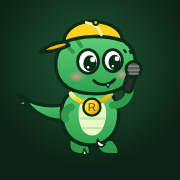
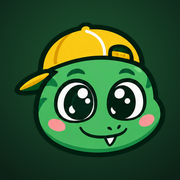
Mascotte Rex en illustrations (neutre, victoire, défaite) et nouvelles icônes d'application
Claude-Session: https://claude.ai/code/session_01A3UQLDuqka1TBU5odZ8x3L

diff --git a/index.html b/index.html
@@ -20,202 +20,8 @@
   <meta name="apple-mobile-web-app-title" content="Raptor Games">
 </head>
 <body>
-  <!-- Mascotte « Rex » (dessin original : casquette, chaîne, micro) et feuilles ; icônes Lucide (licence ISC). Réutilisés avec <use>. -->
+  <!-- Feuilles (dessin original) et icônes Lucide (licence ISC), réutilisées avec <use>. Rex, la mascotte, est en images (rex*.webp). -->
   <svg width="0" height="0" style="position:absolute" aria-hidden="true" focusable="false">
-    <defs>
-    <linearGradient id="rx-skin" x1="0" y1="0" x2="0" y2="1"><stop offset="0" stop-color="#5fd17a"/><stop offset="1" stop-color="#2fa04c"/></linearGradient>
-    <linearGradient id="rx-gold" x1="0" y1="0" x2="1" y2="1"><stop offset="0" stop-color="#fff1a1"/><stop offset=".45" stop-color="#ffd21f"/><stop offset="1" stop-color="#c98f00"/></linearGradient>
-    <radialGradient id="rx-cheek"><stop offset="0" stop-color="#ff8fa3" stop-opacity=".75"/><stop offset="1" stop-color="#ff8fa3" stop-opacity="0"/></radialGradient>
-  </defs>
-    <symbol id="i-raptor" viewBox="0 0 160 160"><g stroke="#0b2a17" stroke-width="3.5" stroke-linejoin="round" stroke-linecap="round">
-    <!-- queue -->
-    <path d="M52 112 C34 112 20 104 10 88 C22 96 36 98 50 96 Z" fill="url(#rx-skin)"/>
-    <path d="M12 90 L2 84 L10 92 L0 94 L12 96 Z" fill="#ffd21f" stroke-width="2.5"/>
-    <!-- pieds -->
-    <path d="M58 132 C56 142 60 148 70 148 L80 148 C82 142 78 136 74 132 Z" fill="#2f9a49"/>
-    <path d="M88 132 C86 142 90 148 100 148 L110 148 C112 142 108 136 104 132 Z" fill="#2f9a49"/>
-    <!-- corps -->
-    <path d="M50 108 C48 88 62 76 80 76 C100 76 112 90 110 110 C108 128 96 138 80 138 C62 138 52 126 50 108 Z" fill="url(#rx-skin)"/>
-  </g>
-  <!-- ventre -->
-  <path d="M68 104 C68 94 74 88 82 88 C92 88 98 96 97 106 C96 120 90 128 82 128 C73 128 68 118 68 104 Z" fill="#e9f8c9"/>
-  <path d="M72 100 L92 100 M71 110 L95 110 M73 120 L92 120" stroke="#c6e6a3" stroke-width="2.5" stroke-linecap="round"/>
-  <!-- griffes -->
-  <path d="M72 148 L74 142 L77 148 Z" fill="#fff" stroke="#0b2a17" stroke-width="1.6" stroke-linejoin="round"/><path d="M93 140 C88 140 86 136 88 132 C90 135 92 137 96 137 Z" fill="#fff" stroke="#0b2a17" stroke-width="1.8" stroke-linejoin="round"/>
-  <!-- chaîne en or + médaillon -->
-  <path d="M60 84 C68 96 92 98 102 84" fill="none" stroke="url(#rx-gold)" stroke-width="5" stroke-dasharray="5 2.5" stroke-linecap="round"/>
-  <g stroke="#0b2a17" stroke-width="2.5">
-    <circle cx="82" cy="98" r="9" fill="url(#rx-gold)"/>
-  </g>
-  <text x="82" y="102.5" text-anchor="middle" font-family="Lilita One, Arial Black, sans-serif" font-size="12" fill="#6b4a00">R</text>
-  <!-- tête -->
-  <g stroke="#0b2a17" stroke-width="3.5" stroke-linejoin="round">
-    <path d="M44 56 C42 34 60 20 84 20 C110 20 128 32 128 52 C128 72 112 84 86 84 C62 84 46 76 44 56 Z" fill="url(#rx-skin)"/>
-  </g>
-  <!-- rayures sur le crâne -->
-  <path d="M56 34 L62 40 M66 27 L71 34" stroke="#2f9a49" stroke-width="4" stroke-linecap="round"/>
-  <!-- joues -->
-  <ellipse cx="66" cy="66" rx="9" ry="6" fill="url(#rx-cheek)"/>
-  <ellipse cx="114" cy="64" rx="8" ry="5.5" fill="url(#rx-cheek)"/>
-  <!-- yeux -->
-  <g stroke="#0b2a17" stroke-width="3">
-    <ellipse cx="78" cy="50" rx="11" ry="12.5" fill="#fff"/>
-    <ellipse cx="104" cy="49" rx="10" ry="11.5" fill="#fff"/>
-  </g>
-  <ellipse cx="80" cy="52" rx="7" ry="8.5" fill="#0b2a17"/>
-  <ellipse cx="106" cy="51" rx="6.5" ry="8" fill="#0b2a17"/>
-  <circle cx="83" cy="48" r="2.8" fill="#fff"/><circle cx="78" cy="56" r="1.3" fill="#fff"/>
-  <circle cx="108.5" cy="47" r="2.6" fill="#fff"/><circle cx="104" cy="55" r="1.2" fill="#fff"/>
-  <!-- narines + sourire avec petit croc -->
-  <path d="M116 38 l1.5 2 M122 39 l1 2" stroke="#0b2a17" stroke-width="2.4" stroke-linecap="round"/>
-  <path d="M84 70 C90 76 100 76 106 69" fill="none" stroke="#0b2a17" stroke-width="3" stroke-linecap="round"/>
-  <path d="M97 73.4 L99 78 L101 72.8 Z" fill="#fff" stroke="#0b2a17" stroke-width="1.4" stroke-linejoin="round"/>
-  <!-- casquette à l'envers -->
-  <g stroke="#0b2a17" stroke-width="3.5" stroke-linejoin="round">
-    <path d="M52 30 C54 14 70 6 88 8 C104 10 114 18 114 28 C96 22 70 22 52 30 Z" fill="#ffd21f"/>
-    <path d="M54 29 C44 30 34 34 28 40 C40 40 50 37 58 33 Z" fill="#f2b900"/>
-  </g>
-  <path d="M76 9 C84 10 90 14 92 22" fill="none" stroke="#fff3b0" stroke-width="3" stroke-linecap="round"/>
-  <circle cx="86" cy="9" r="2.6" fill="#f2b900" stroke="#0b2a17" stroke-width="2"/>
-  <!-- bras avec micro -->
-  <g stroke="#0b2a17" stroke-width="3.2" stroke-linecap="round" stroke-linejoin="round">
-    <path d="M104 96 C114 96 120 90 122 82" fill="none" stroke="#2f9a49" stroke-width="8"/>
-    <path d="M104 96 C114 96 120 90 122 82" fill="none" stroke-width="0"/>
-    <rect x="117" y="62" width="9" height="20" rx="3" fill="#2b2b2b" transform="rotate(18 121 72)"/>
-    <circle cx="126" cy="58" r="8" fill="#5a5a5a"/>
-  </g>
-  <path d="M121 55 L131 55 M120 59 L132 59 M121 63 L131 63" stroke="#8d8d8d" stroke-width="1.4" stroke-linecap="round"/>
-  <path d="M60 98 C54 100 52 106 54 110" fill="none" stroke="#2f9a49" stroke-width="8" stroke-linecap="round"/>
-  <path d="M60 98 C54 100 52 106 54 110" fill="none" stroke="#0b2a17" stroke-width="2" stroke-linecap="round" opacity=".0"/></symbol>
-    <symbol id="i-raptor-sad" viewBox="0 0 160 160"><g stroke="#0b2a17" stroke-width="3.5" stroke-linejoin="round" stroke-linecap="round">
-    <!-- queue -->
-    <path d="M52 112 C34 112 20 104 10 88 C22 96 36 98 50 96 Z" fill="url(#rx-skin)"/>
-    <path d="M12 90 L2 84 L10 92 L0 94 L12 96 Z" fill="#ffd21f" stroke-width="2.5"/>
-    <!-- pieds -->
-    <path d="M58 132 C56 142 60 148 70 148 L80 148 C82 142 78 136 74 132 Z" fill="#2f9a49"/>
-    <path d="M88 132 C86 142 90 148 100 148 L110 148 C112 142 108 136 104 132 Z" fill="#2f9a49"/>
-    <!-- corps -->
-    <path d="M50 108 C48 88 62 76 80 76 C100 76 112 90 110 110 C108 128 96 138 80 138 C62 138 52 126 50 108 Z" fill="url(#rx-skin)"/>
-  </g>
-  <!-- ventre -->
-  <path d="M68 104 C68 94 74 88 82 88 C92 88 98 96 97 106 C96 120 90 128 82 128 C73 128 68 118 68 104 Z" fill="#e9f8c9"/>
-  <path d="M72 100 L92 100 M71 110 L95 110 M73 120 L92 120" stroke="#c6e6a3" stroke-width="2.5" stroke-linecap="round"/>
-  <!-- griffes -->
-  <path d="M72 148 L74 142 L77 148 Z" fill="#fff" stroke="#0b2a17" stroke-width="1.6" stroke-linejoin="round"/><path d="M93 140 C88 140 86 136 88 132 C90 135 92 137 96 137 Z" fill="#fff" stroke="#0b2a17" stroke-width="1.8" stroke-linejoin="round"/>
-  <!-- chaîne en or + médaillon -->
-  <path d="M60 84 C68 96 92 98 102 84" fill="none" stroke="url(#rx-gold)" stroke-width="5" stroke-dasharray="5 2.5" stroke-linecap="round"/>
-  <g stroke="#0b2a17" stroke-width="2.5">
-    <circle cx="82" cy="98" r="9" fill="url(#rx-gold)"/>
-  </g>
-  <text x="82" y="102.5" text-anchor="middle" font-family="Lilita One, Arial Black, sans-serif" font-size="12" fill="#6b4a00">R</text>
-  <!-- tête -->
-  <g stroke="#0b2a17" stroke-width="3.5" stroke-linejoin="round">
-    <path d="M44 56 C42 34 60 20 84 20 C110 20 128 32 128 52 C128 72 112 84 86 84 C62 84 46 76 44 56 Z" fill="url(#rx-skin)"/>
-  </g>
-  <!-- rayures sur le crâne -->
-  <path d="M56 34 L62 40 M66 27 L71 34" stroke="#2f9a49" stroke-width="4" stroke-linecap="round"/>
-  <!-- joues -->
-  <ellipse cx="66" cy="66" rx="9" ry="6" fill="url(#rx-cheek)"/>
-  <ellipse cx="114" cy="64" rx="8" ry="5.5" fill="url(#rx-cheek)"/>
-  <!-- yeux -->
-  <g stroke="#0b2a17" stroke-width="3">
-    <ellipse cx="78" cy="50" rx="11" ry="12.5" fill="#fff"/>
-    <ellipse cx="104" cy="49" rx="10" ry="11.5" fill="#fff"/>
-  </g>
-  <ellipse cx="80" cy="52" rx="7" ry="8.5" fill="#0b2a17"/>
-  <ellipse cx="106" cy="51" rx="6.5" ry="8" fill="#0b2a17"/>
-  <circle cx="83" cy="48" r="2.8" fill="#fff"/><circle cx="78" cy="56" r="1.3" fill="#fff"/>
-  <circle cx="108.5" cy="47" r="2.6" fill="#fff"/><circle cx="104" cy="55" r="1.2" fill="#fff"/>
-  <path d="M66 44 C68 36 88 36 90 44 Z" fill="#46bf63" stroke="#0b2a17" stroke-width="3" stroke-linejoin="round"/>
-  <path d="M93 43 C95 35 113 35 115 43 Z" fill="#46bf63" stroke="#0b2a17" stroke-width="3" stroke-linejoin="round"/>
-  <path d="M70 62 C68 66 68 69 70 70 C72 69 72 66 70 62 Z" fill="#8fd3ff" stroke="#0b2a17" stroke-width="1.5"/>
-  <!-- narines + sourire avec petit croc -->
-  <path d="M116 38 l1.5 2 M122 39 l1 2" stroke="#0b2a17" stroke-width="2.4" stroke-linecap="round"/>
-  <path d="M86 75 C92 70 100 70 105 74" fill="none" stroke="#0b2a17" stroke-width="3" stroke-linecap="round"/>
-  
-  <!-- casquette à l'envers -->
-  <g stroke="#0b2a17" stroke-width="3.5" stroke-linejoin="round">
-    <path d="M52 30 C54 14 70 6 88 8 C104 10 114 18 114 28 C96 22 70 22 52 30 Z" fill="#ffd21f"/>
-    <path d="M54 29 C44 30 34 34 28 40 C40 40 50 37 58 33 Z" fill="#f2b900"/>
-  </g>
-  <path d="M76 9 C84 10 90 14 92 22" fill="none" stroke="#fff3b0" stroke-width="3" stroke-linecap="round"/>
-  <circle cx="86" cy="9" r="2.6" fill="#f2b900" stroke="#0b2a17" stroke-width="2"/>
-  <!-- bras avec micro -->
-  <g stroke="#0b2a17" stroke-width="3.2" stroke-linecap="round" stroke-linejoin="round">
-    <path d="M104 96 C114 96 120 90 122 82" fill="none" stroke="#2f9a49" stroke-width="8"/>
-    <path d="M104 96 C114 96 120 90 122 82" fill="none" stroke-width="0"/>
-    <rect x="117" y="62" width="9" height="20" rx="3" fill="#2b2b2b" transform="rotate(18 121 72)"/>
-    <circle cx="126" cy="58" r="8" fill="#5a5a5a"/>
-  </g>
-  <path d="M121 55 L131 55 M120 59 L132 59 M121 63 L131 63" stroke="#8d8d8d" stroke-width="1.4" stroke-linecap="round"/>
-  <path d="M60 98 C54 100 52 106 54 110" fill="none" stroke="#2f9a49" stroke-width="8" stroke-linecap="round"/>
-  <path d="M60 98 C54 100 52 106 54 110" fill="none" stroke="#0b2a17" stroke-width="2" stroke-linecap="round" opacity=".0"/></symbol>
-    <symbol id="i-raptor-cool" viewBox="0 0 160 160"><g stroke="#0b2a17" stroke-width="3.5" stroke-linejoin="round" stroke-linecap="round">
-    <!-- queue -->
-    <path d="M52 112 C34 112 20 104 10 88 C22 96 36 98 50 96 Z" fill="url(#rx-skin)"/>
-    <path d="M12 90 L2 84 L10 92 L0 94 L12 96 Z" fill="#ffd21f" stroke-width="2.5"/>
-    <!-- pieds -->
-    <path d="M58 132 C56 142 60 148 70 148 L80 148 C82 142 78 136 74 132 Z" fill="#2f9a49"/>
-    <path d="M88 132 C86 142 90 148 100 148 L110 148 C112 142 108 136 104 132 Z" fill="#2f9a49"/>
-    <!-- corps -->
-    <path d="M50 108 C48 88 62 76 80 76 C100 76 112 90 110 110 C108 128 96 138 80 138 C62 138 52 126 50 108 Z" fill="url(#rx-skin)"/>
-  </g>
-  <!-- ventre -->
-  <path d="M68 104 C68 94 74 88 82 88 C92 88 98 96 97 106 C96 120 90 128 82 128 C73 128 68 118 68 104 Z" fill="#e9f8c9"/>
-  <path d="M72 100 L92 100 M71 110 L95 110 M73 120 L92 120" stroke="#c6e6a3" stroke-width="2.5" stroke-linecap="round"/>
-  <!-- griffes -->
-  <path d="M72 148 L74 142 L77 148 Z" fill="#fff" stroke="#0b2a17" stroke-width="1.6" stroke-linejoin="round"/><path d="M93 140 C88 140 86 136 88 132 C90 135 92 137 96 137 Z" fill="#fff" stroke="#0b2a17" stroke-width="1.8" stroke-linejoin="round"/>
-  <!-- chaîne en or + médaillon -->
-  <path d="M60 84 C68 96 92 98 102 84" fill="none" stroke="url(#rx-gold)" stroke-width="5" stroke-dasharray="5 2.5" stroke-linecap="round"/>
-  <g stroke="#0b2a17" stroke-width="2.5">
-    <circle cx="82" cy="98" r="9" fill="url(#rx-gold)"/>
-  </g>
-  <text x="82" y="102.5" text-anchor="middle" font-family="Lilita One, Arial Black, sans-serif" font-size="12" fill="#6b4a00">R</text>
-  <!-- tête -->
-  <g stroke="#0b2a17" stroke-width="3.5" stroke-linejoin="round">
-    <path d="M44 56 C42 34 60 20 84 20 C110 20 128 32 128 52 C128 72 112 84 86 84 C62 84 46 76 44 56 Z" fill="url(#rx-skin)"/>
-  </g>
-  <!-- rayures sur le crâne -->
-  <path d="M56 34 L62 40 M66 27 L71 34" stroke="#2f9a49" stroke-width="4" stroke-linecap="round"/>
-  <!-- joues -->
-  <ellipse cx="66" cy="66" rx="9" ry="6" fill="url(#rx-cheek)"/>
-  <ellipse cx="114" cy="64" rx="8" ry="5.5" fill="url(#rx-cheek)"/>
-  <!-- yeux -->
-  <g stroke="#0b2a17" stroke-width="3">
-    <ellipse cx="78" cy="50" rx="11" ry="12.5" fill="#fff"/>
-    <ellipse cx="104" cy="49" rx="10" ry="11.5" fill="#fff"/>
-  </g>
-  <ellipse cx="80" cy="52" rx="7" ry="8.5" fill="#0b2a17"/>
-  <ellipse cx="106" cy="51" rx="6.5" ry="8" fill="#0b2a17"/>
-  <circle cx="83" cy="48" r="2.8" fill="#fff"/><circle cx="78" cy="56" r="1.3" fill="#fff"/>
-  <circle cx="108.5" cy="47" r="2.6" fill="#fff"/><circle cx="104" cy="55" r="1.2" fill="#fff"/>
-  <g stroke="#0b2a17" stroke-width="3" stroke-linejoin="round">
-    <path d="M64 42 L92 42 L90 56 C88 62 70 62 67 56 Z" fill="#111"/>
-    <path d="M94 42 L120 41 L118 55 C116 61 100 61 97 55 Z" fill="#111"/>
-    <path d="M90 45 L96 45" fill="none"/>
-  </g>
-  <path d="M70 46 L78 46 M99 45 L106 45" stroke="#7af08f" stroke-width="2.4" stroke-linecap="round" opacity=".8"/>
-  <!-- narines + sourire avec petit croc -->
-  <path d="M116 38 l1.5 2 M122 39 l1 2" stroke="#0b2a17" stroke-width="2.4" stroke-linecap="round"/>
-  <path d="M82 68 C90 80 102 80 108 67 Z" fill="#0b2a17" stroke="#0b2a17" stroke-width="3" stroke-linejoin="round"/><path d="M90 73 C95 77 100 77 104 72" fill="none" stroke="#ff8fa3" stroke-width="3" stroke-linecap="round"/>
-  
-  <!-- casquette à l'envers -->
-  <g stroke="#0b2a17" stroke-width="3.5" stroke-linejoin="round">
-    <path d="M52 30 C54 14 70 6 88 8 C104 10 114 18 114 28 C96 22 70 22 52 30 Z" fill="#ffd21f"/>
-    <path d="M54 29 C44 30 34 34 28 40 C40 40 50 37 58 33 Z" fill="#f2b900"/>
-  </g>
-  <path d="M76 9 C84 10 90 14 92 22" fill="none" stroke="#fff3b0" stroke-width="3" stroke-linecap="round"/>
-  <circle cx="86" cy="9" r="2.6" fill="#f2b900" stroke="#0b2a17" stroke-width="2"/>
-  <!-- bras avec micro -->
-  <g stroke="#0b2a17" stroke-width="3.2" stroke-linecap="round" stroke-linejoin="round">
-    <path d="M104 96 C114 96 120 90 122 82" fill="none" stroke="#2f9a49" stroke-width="8"/>
-    <path d="M104 96 C114 96 120 90 122 82" fill="none" stroke-width="0"/>
-    <rect x="117" y="62" width="9" height="20" rx="3" fill="#2b2b2b" transform="rotate(18 121 72)"/>
-    <circle cx="126" cy="58" r="8" fill="#5a5a5a"/>
-  </g>
-  <path d="M121 55 L131 55 M120 59 L132 59 M121 63 L131 63" stroke="#8d8d8d" stroke-width="1.4" stroke-linecap="round"/>
-  <path d="M60 98 C54 100 52 106 54 110" fill="none" stroke="#2f9a49" stroke-width="8" stroke-linecap="round"/>
-  <path d="M60 98 C54 100 52 106 54 110" fill="none" stroke="#0b2a17" stroke-width="2" stroke-linecap="round" opacity=".0"/></symbol>
     <symbol id="i-leaf" viewBox="0 0 100 100"><path d="M50 96 C46 80 20 74 14 52 C8 30 24 10 50 4 C76 10 92 30 86 52 C80 74 54 80 50 96 Z" fill="#2f9a49"/>
   <path d="M50 92 L50 10" stroke="#1b5e31" stroke-width="3" stroke-linecap="round"/>
   <path d="M50 30 L30 20 M50 46 L24 38 M50 62 L30 58 M50 30 L70 20 M50 46 L76 38 M50 62 L70 58" stroke="#1b5e31" stroke-width="2.4" stroke-linecap="round"/>
@@ -244,7 +50,7 @@
     <header class="logo">
       <svg class="leaf leaf-l" viewBox="0 0 100 100" aria-hidden="true"><use href="#i-leaf"/></svg>
       <svg class="leaf leaf-r" viewBox="0 0 100 100" aria-hidden="true"><use href="#i-leaf"/></svg>
-      <svg class="raptor logo-raptor" viewBox="0 0 160 160" aria-hidden="true"><use href="#i-raptor"/></svg>
+      <img class="raptor logo-raptor" src="/rex.webp" alt="" width="160" height="160" decoding="async">
       <h1><span>Raptor</span><span class="o">Games</span></h1>
       <p class="pitch" id="pitch">Le jeu des featurings, contre un pote ou contre le bot.</p>
     </header>
@@ -308,7 +114,7 @@
       <button class="link" data-leave type="button">Quitter</button>
     </div>
 
-    <svg class="raptor lobby-raptor" viewBox="0 0 160 160" aria-hidden="true"><use href="#i-raptor"/></svg>
+    <img class="raptor lobby-raptor" src="/rex.webp" alt="" width="160" height="160" decoding="async">
     <section class="invite" id="invite">
       <h2 class="lobby-title" id="lobbyTitle">Invite ton adversaire</h2>
       <button class="codebox" id="codeBox" type="button" aria-label="Copier le code du salon">
@@ -425,7 +231,7 @@
   <!-- FIN DE MANCHE : feuille en bas, la chaîne reste visible au-dessus -->
   <div class="sheet" id="endSheet" hidden role="dialog" aria-labelledby="endTitle">
     <div class="sheet-body">
-      <svg class="raptor sheet-raptor" viewBox="0 0 160 160" aria-hidden="true"><use href="#i-raptor"/></svg>
+      <img class="raptor sheet-raptor" src="/rex.webp" alt="" width="160" height="160" decoding="async">
       <p class="small" id="endKicker"></p>
       <h2 id="endTitle"></h2>
       <p id="endText"></p>
@@ -452,7 +258,7 @@
   </div>
 
   <div class="toast" id="toast" role="status" hidden></div>
-  <div class="wake" id="wake" role="status" hidden><svg class="raptor wake-raptor" viewBox="0 0 160 160" aria-hidden="true"><use href="#i-raptor"/></svg><span id="wakeText"></span></div>
+  <div class="wake" id="wake" role="status" hidden><img class="raptor wake-raptor" src="/rex.webp" alt="" width="160" height="160" decoding="async"><span id="wakeText"></span></div>
   <audio id="audio" preload="none"></audio>
 
   <script src="/socket.io/socket.io.js"></script>

diff --git a/app.js b/app.js
@@ -532,7 +532,7 @@
         const badges = (l.rare ? ' <span class="tag rare" title="Feat rare">Rare</span>' : '') + (l.joker ? ' <span class="tag">Joker</span>' : '') + (l.relaunch ? ' <span class="tag">Relance</span>' : '');
         const detail = (i === 0 ? `<span class="by">${l.bridge ? 'départ' : `lancé par ${who}`}</span>` : `<span class="by">${who}</span>`) + badges;
         return `<li class="p${l.by}${i === 0 ? ' origin' : ''}"><div class="a">${esc(l.artist.name)} ${detail}</div>${l.track ? trackCard(l.track, l.byAppeal, others(l.track)) : ''}</li>`;
-      }).reverse().join('') : `<li class="empty">${ico('i-raptor', 'raptor mini')}Les feats validés s'affichent ici.</li>`;
+      }).reverse().join('') : `<li class="empty"><img class="raptor mini" src="/rex.webp" alt="">Les feats validés s'affichent ici.</li>`;
       bindTracks();
       lastChainLen = r.chain.length;
     }
@@ -913,7 +913,7 @@
       $('#chain').innerHTML = log.length ? log.map((l) => {
         const pts = (l.points ? `<span class="tag rare">+${l.points}</span>` : '<span class="tag">0</span>') + (l.fast ? ' <span class="tag">Rapide</span>' : '') + (l.extended ? ' <span class="tag">Joker</span>' : '');
         return `<li class="p${l.guesser}"><div class="a">${esc(l.artist ? l.artist.name : '')} <span class="by">${esc(S.players[l.proposer]?.name || '')} → ${esc(S.players[l.guesser]?.name || '')}</span> ${pts}</div>${l.track ? trackCard(l.track, false, []) : ''}</li>`;
-      }).reverse().join('') : `<li class="empty">${ico('i-raptor', 'raptor mini')}Les extraits joués s'affichent ici.</li>`;
+      }).reverse().join('') : `<li class="empty"><img class="raptor mini" src="/rex.webp" alt="">Les extraits joués s'affichent ici.</li>`;
       bindTracks();
     }
 
@@ -1585,8 +1585,9 @@
   let sheetWas = '';
   new MutationObserver(() => {
     const open = !sheetEl.hidden, win = sheetEl.classList.contains('win');
-    const use = sheetEl.querySelector('.sheet-raptor use');
-    if (use) use.setAttribute('href', win ? '#i-raptor-cool' : '#i-raptor-sad');
+    const rex = sheetEl.querySelector('.sheet-raptor');
+    const src = win ? '/rex-win.webp' : '/rex-sad.webp';
+    if (rex && !rex.src.endsWith(src)) rex.src = src;
     const key = open ? (win ? 'win' : 'lose') + (S ? S.roundNo + '-' + S.phase : '') : '';
     if (open && win && key !== sheetWas && window.confetti && !matchMedia('(prefers-reduced-motion: reduce)').matches) {
       const colors = ['#ffd21f', '#43b85c', '#f3f7e6', '#2fae4f'];

diff --git a/styles.css b/styles.css
@@ -633,7 +633,7 @@ body {
 /* Rex, la mascotte */
 .raptor { display: block; overflow: visible; }
 .logo { position: relative; }
-.logo-raptor { width: 148px; height: 148px; margin: -6px auto -18px; filter: drop-shadow(0 8px 0 #06120966); animation: rexIn .7s cubic-bezier(.2,1.6,.4,1) both, rexBob 3.2s ease-in-out .8s infinite; transform-origin: 50% 100%; }
+.logo-raptor { width: 168px; height: 168px; margin: -6px auto -10px; filter: drop-shadow(0 8px 0 #06120966); animation: rexIn .7s cubic-bezier(.2,1.6,.4,1) both, rexBob 3.2s ease-in-out .8s infinite; transform-origin: 50% 100%; }
 @keyframes rexIn { from { transform: translateY(40px) scale(.3); opacity: 0; } }
 @keyframes rexBob { 0%, 100% { transform: translateY(0) rotate(0); } 25% { transform: translateY(-5px) rotate(-2deg); } 50% { transform: translateY(0) rotate(0); } 75% { transform: translateY(-3px) rotate(2deg); } }
 .leaf { position: absolute; width: 96px; height: 96px; top: 10px; opacity: .95; filter: drop-shadow(0 6px 0 #06120980); pointer-events: none; }

diff --git a/sw.js b/sw.js
@@ -1,7 +1,7 @@
 // Garde le jeu sur le téléphone : l'accueil s'ouvre tout de suite, même quand le serveur gratuit dort.
 // __VERSION__ est remplacé par le serveur : chaque mise à jour du jeu crée un nouveau cache.
 const CACHE = 'rg-__VERSION__';
-const SHELL = ['/', '/app.js?v=__VERSION__', '/styles.css?v=__VERSION__', '/socket.io/socket.io.js', '/confetti.js', '/favicon-32.png', '/apple-touch-icon.png', '/icon-192.png'];
+const SHELL = ['/', '/app.js?v=__VERSION__', '/styles.css?v=__VERSION__', '/socket.io/socket.io.js', '/confetti.js', '/rex.webp', '/rex-win.webp', '/rex-sad.webp', '/favicon-32.png', '/apple-touch-icon.png', '/icon-192.png'];
 const NAV_TIMEOUT = 2500; // au-delà, on affiche la version gardée en attendant le réveil du serveur
 
 self.addEventListener('install', (e) => {

diff --git a/server.js b/server.js
@@ -41,6 +41,8 @@ const SW = fs.readFileSync(path.join(__dirname, 'sw.js'), 'utf8').replace(/__VER
 app.get('/sw.js', (_, res) => { res.set('Cache-Control', 'no-cache'); res.type('application/javascript').send(SW); });
 app.get('/app.js', send('app.js'));
 app.get('/styles.css', send('styles.css'));
+// Rex, la mascotte (3 humeurs).
+for (const f of ['rex.webp', 'rex-win.webp', 'rex-sad.webp']) app.get('/' + f, (_, res) => res.sendFile(path.join(__dirname, f), { maxAge: '7d' }));
 // Confettis de victoire (canvas-confetti 1.9.3, licence ISC), servis depuis le dépôt.
 app.get('/confetti.js', (_, res) => res.sendFile(path.join(__dirname, 'confetti.js'), { maxAge: '30d' }));
 // Icônes (onglet du navigateur, écran d'accueil iOS/Android) et fiche d'application installable.
